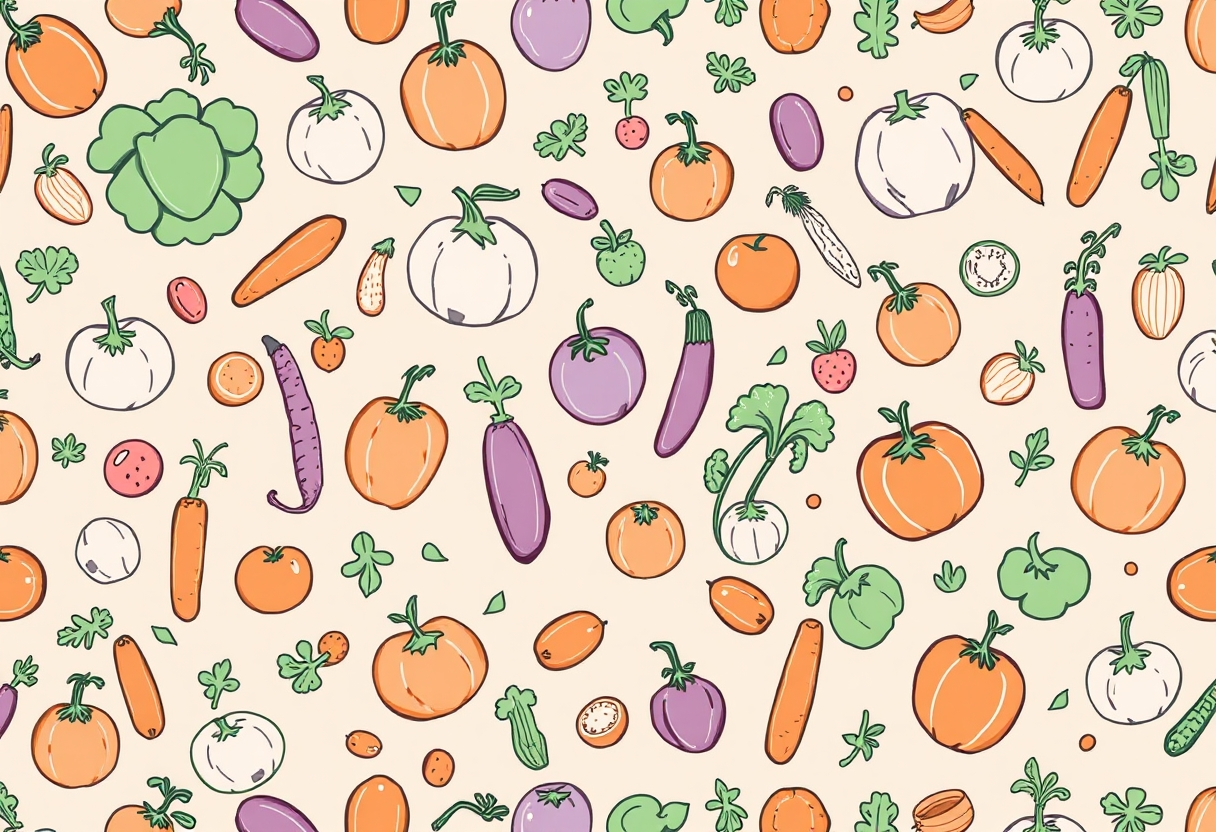
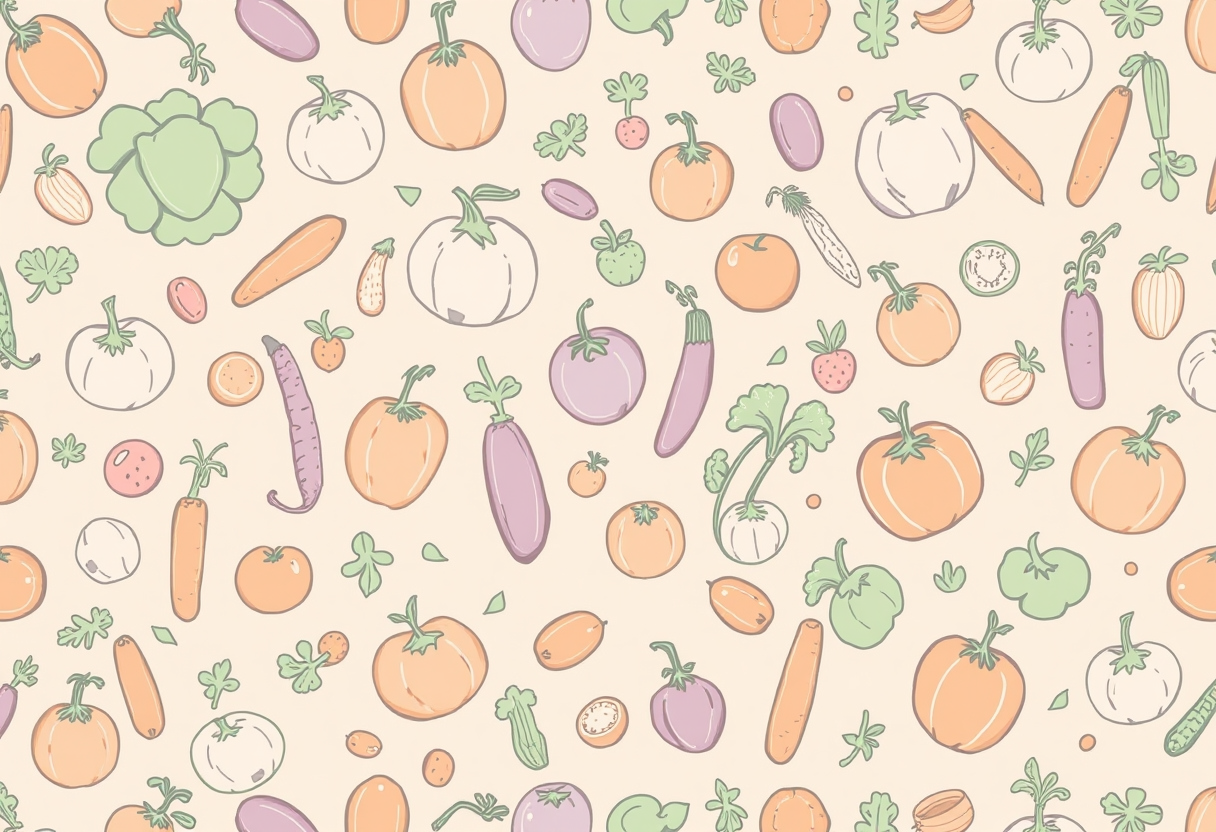
Update 5.7: Background Images

diff --git a/src/app/page.tsx b/src/app/page.tsx
@@ -63,14 +63,18 @@ export default async function FunHomePage() {
           </nav>
         </header>
         <main className="flex-1">
-          <section className="w-full py-12 md:py-24 lg:py-32 xl:py-48 bg-[#DDE5B6]">
+          <section className="w-full py-12 md:py-24 lg:py-32 xl:py-48"style={{
+            backgroundImage: "url('/fruit_print.png')",
+            backgroundSize: "cover",
+            backgroundPosition: "center",
+          }}>
             <div className="container px-4 md:px-6 mx-auto">
               <div className="flex flex-col items-center space-y-4 text-center">
                 <div className="space-y-2">
                   <h1 className="text-4xl font-bold tracking-tighter sm:text-5xl md:text-6xl lg:text-7xl text-[#6C584C]">
                     Sharing Smiles, One Meal at a Time!
                   </h1>
-                  <p className="mx-auto max-w-[700px] text-[#A98467] text-xl md:text-2xl font-semibold">
+                  <p className="mx-auto max-w-[700px] text-[#6C584C] text-xl md:text-2xl font-semibold">
                     Join our weekend food fiesta and help us spread joy to those in need!
                   </p>
                 </div>
@@ -160,7 +164,7 @@ export default async function FunHomePage() {
                     </CardHeader>
                     <CardContent>
                       <p className="text-4xl font-bold text-[#6C584C]">{unemploymentRate}%</p>
-                      <p className="text-[#6C584C] mt-2">We&pos;re working hard to make a difference!</p>
+                      <p className="text-[#6C584C] mt-2">We&apos;re working hard to make a difference!</p>
                     </CardContent>
                   </Card>
                   
